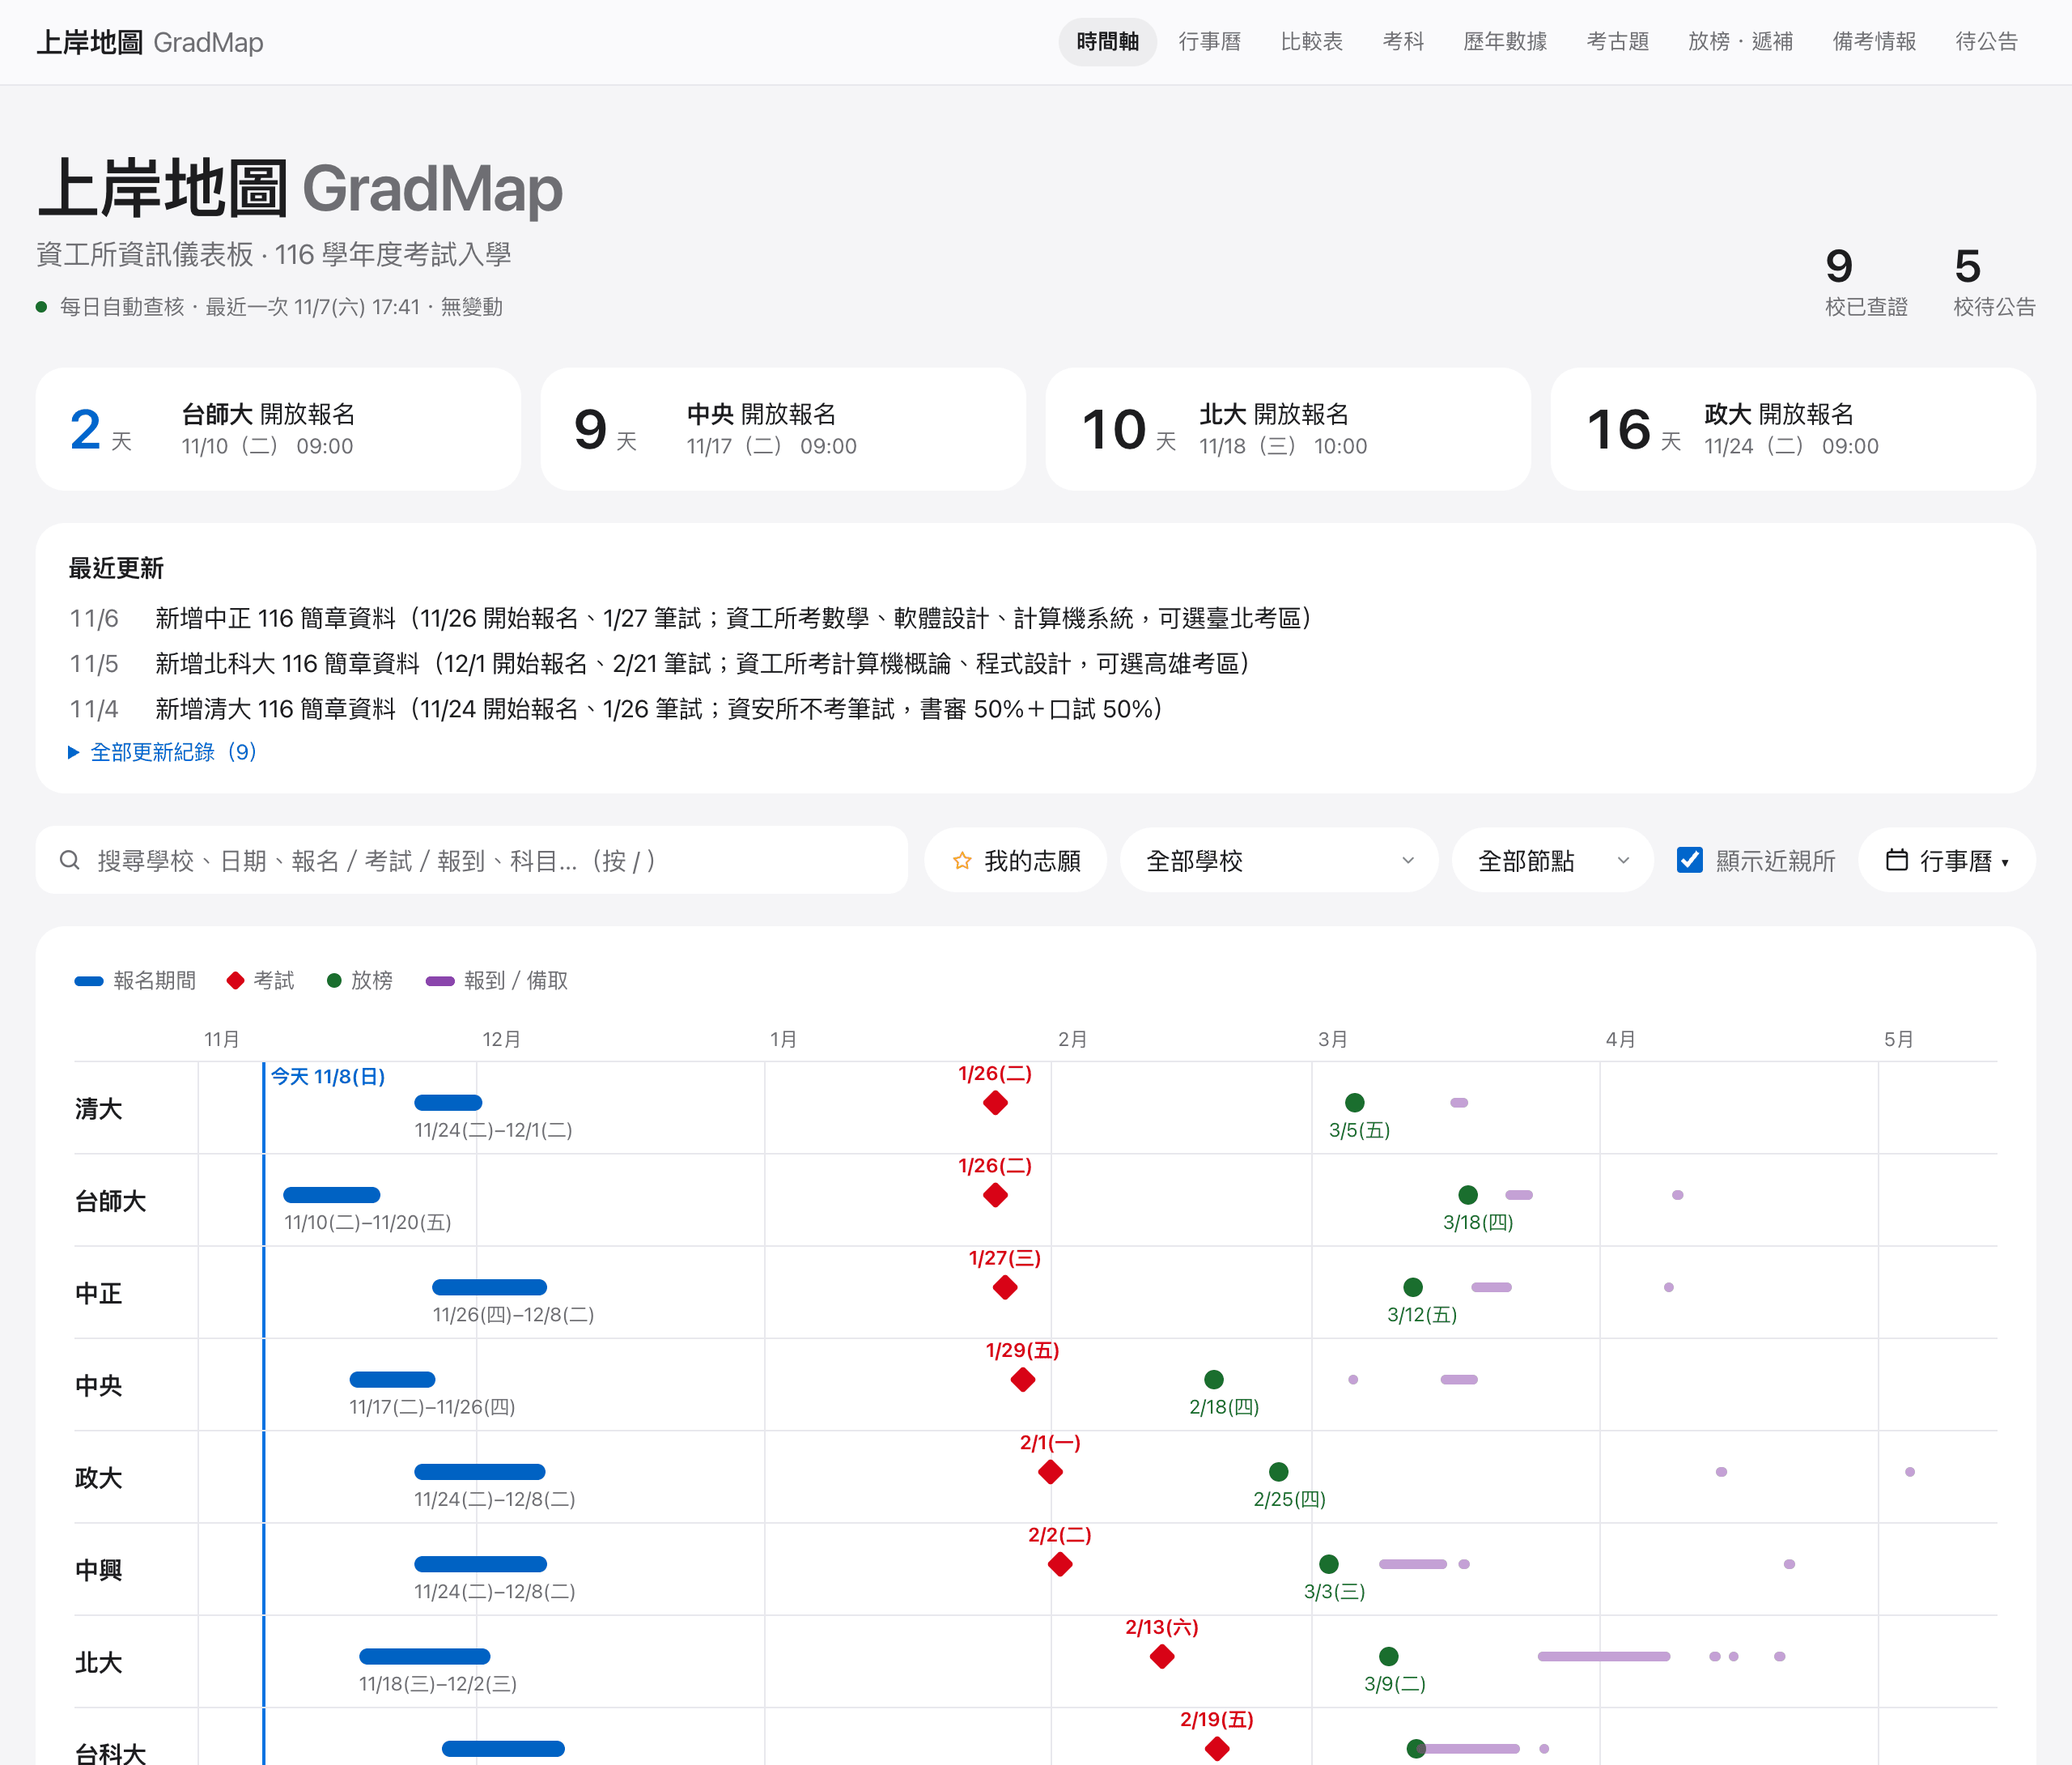
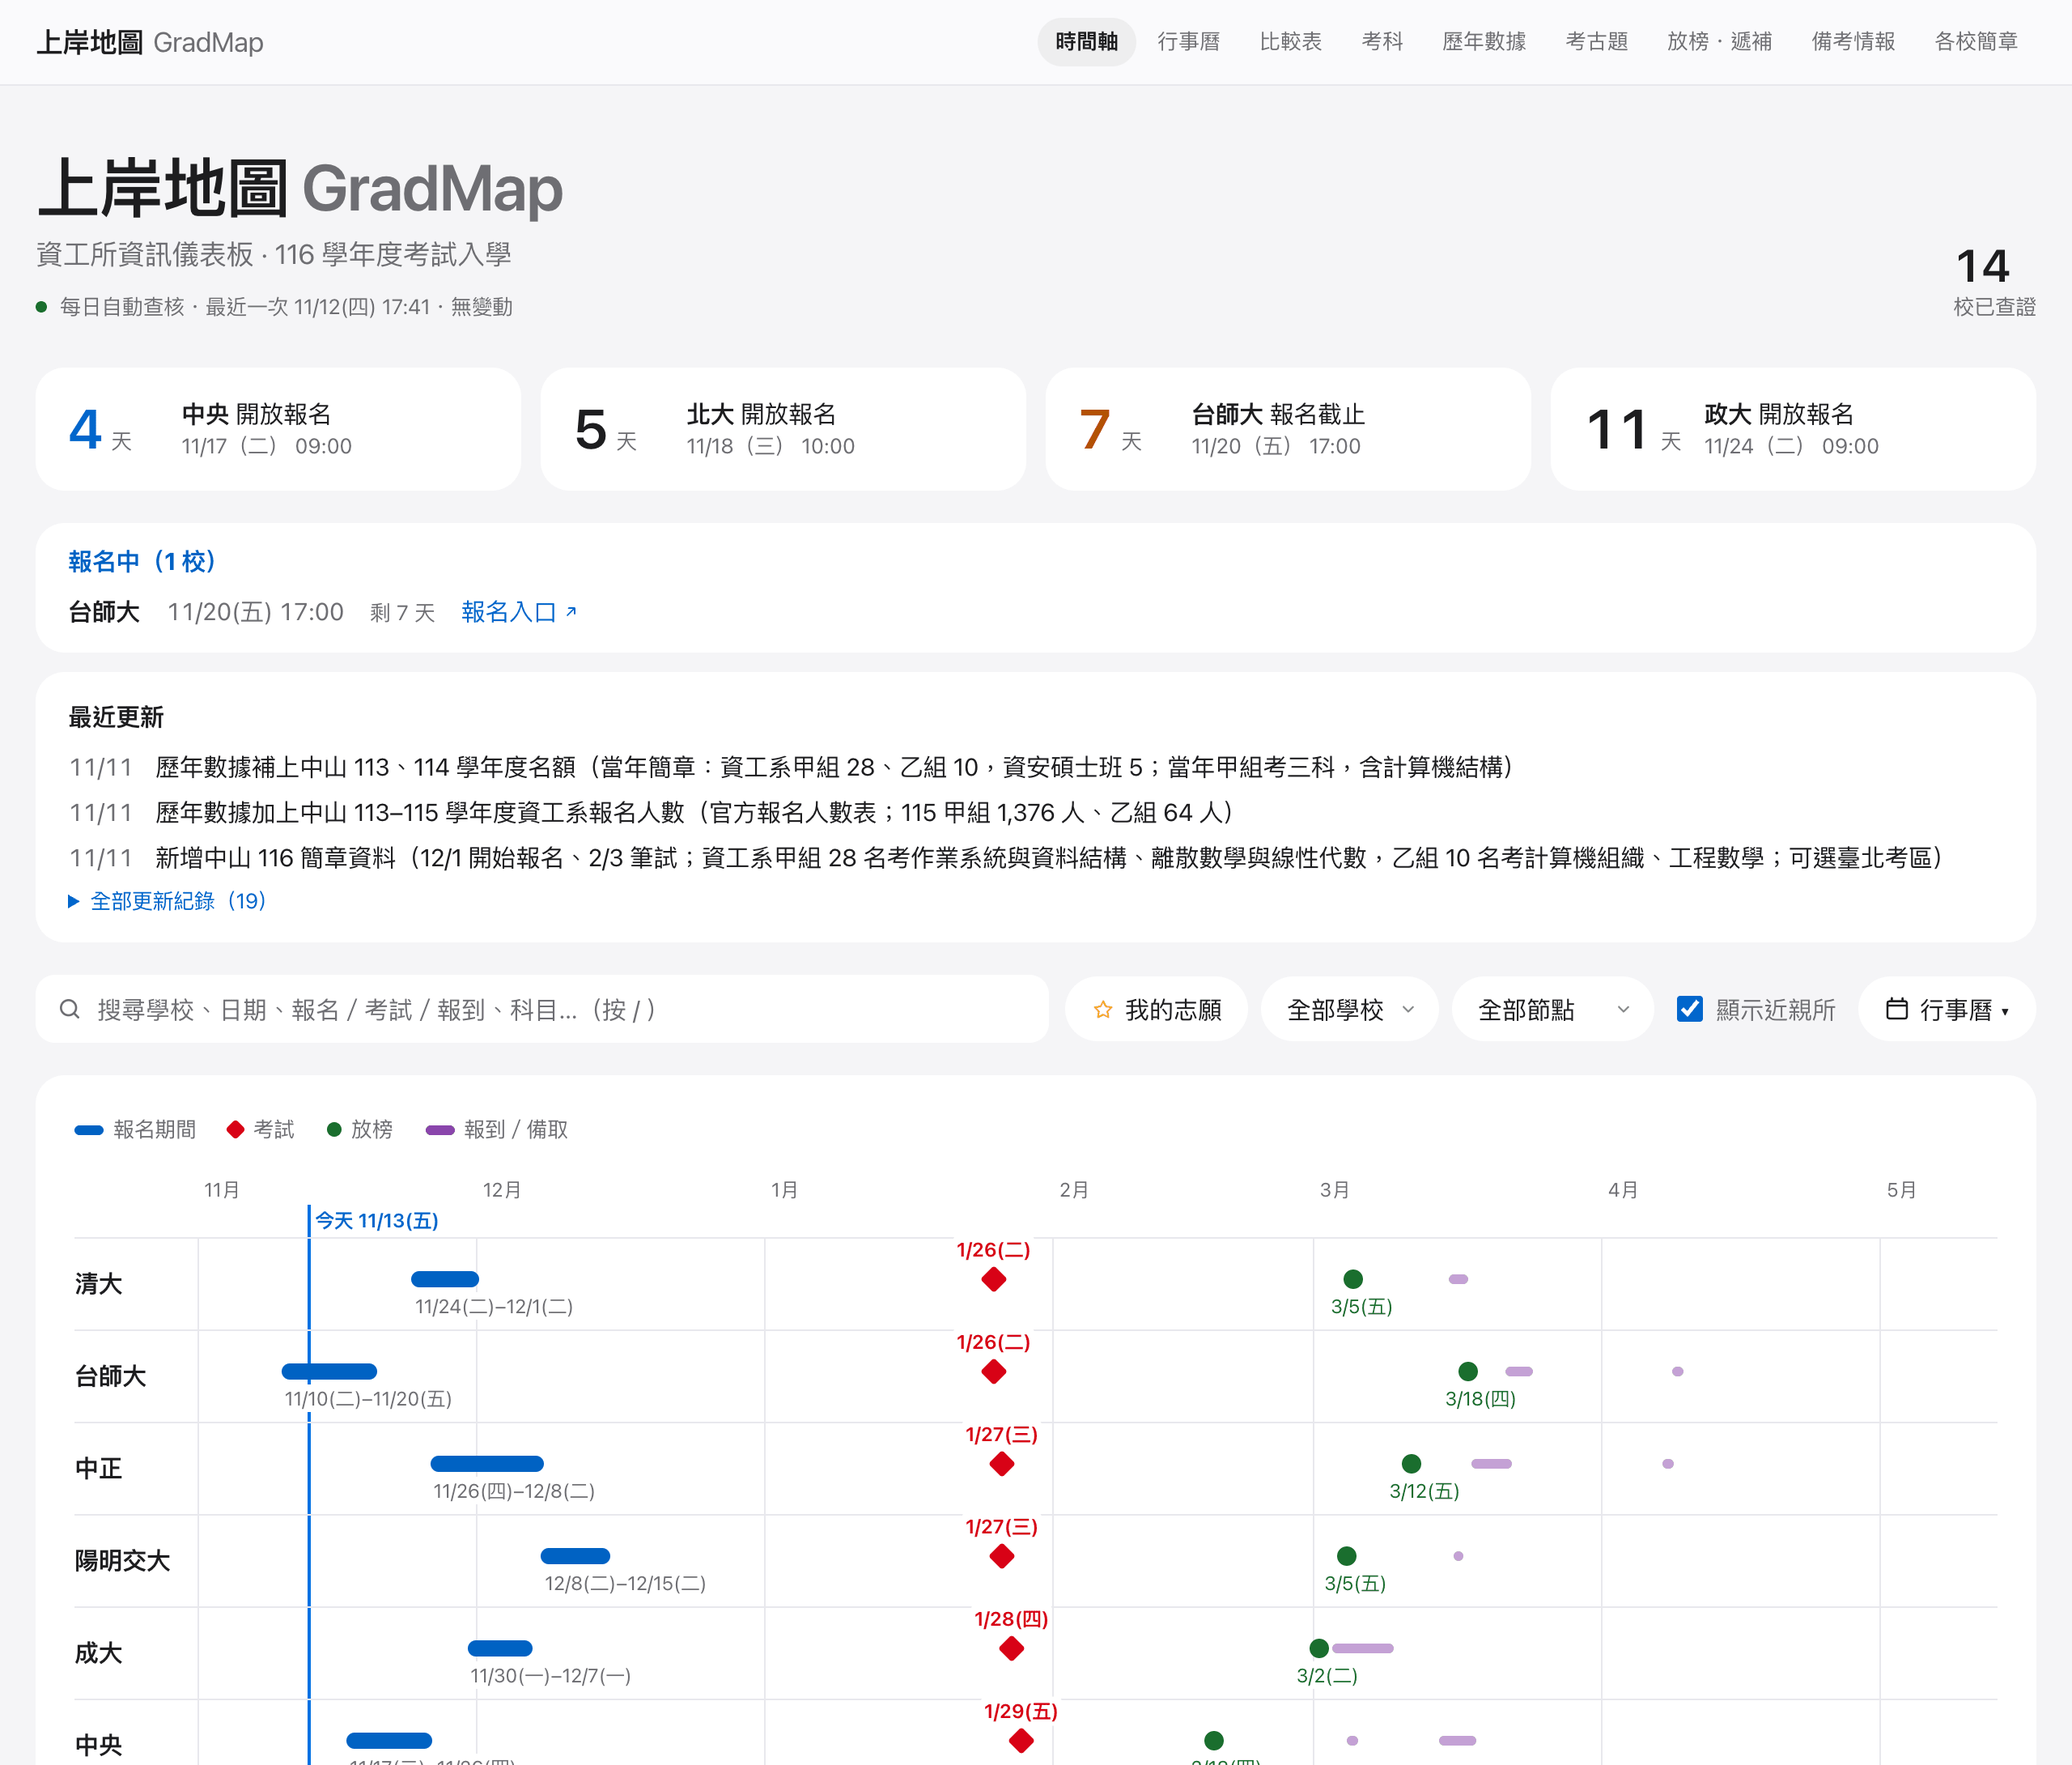
README: refresh screenshots (fee waivers, application links, Sun Yat-sen data) and describe the newer timeline, countdown and results/waitlist features
The phone screenshot now starts at the first main program card so it shows papers and weights.

diff --git a/README.md b/README.md
@@ -25,17 +25,17 @@ Deadlines, exam dates, quotas, subjects and score weights from each school's off
 
 | | English | 中文 |
 |---|---|---|
-| 🗓 | **Timeline & calendar** — registration, exam, results and enrollment dates, with weekday and conflict warnings | 時間軸與月曆：報名、考試、放榜、報到，標星期幾與撞期提醒 |
+| 🗓 | **Timeline & calendar** — registration, exam, results and enrollment dates, with weekday and conflict warnings; on phones the timeline opens at today | 時間軸與月曆：報名、考試、放榜、報到，標星期幾與撞期提醒；手機上時間軸會開在今天附近 |
 | 📊 | **Compare table** — quotas, papers, weights and tie-breakers across schools, with live registration status (open · N days left / closed) | 比較表：名額、試卷、配分、同分參酌，報名期間顯示「報名中・N 天後截止」 |
 | 🧮 | **Prep planner** — tick the subjects you study, see which programs you can apply to | 一份準備能報幾校：勾選準備科目，列出考科完全涵蓋／只差一科的組別 |
 | ★ | **My list** — pick schools, see total fees, share via link, export `.ics` | 我的志願：報名費合計、分享連結、匯出行事曆 |
 | 📍 | **Itinerary** — exam venues and back-to-back travel warnings | 考場與行程：連考、跨縣市提醒 |
 | 📚 | **Past exams index** — where each school publishes past papers, and which years | 考古題索引：官方位置與可取得年度 |
-| 📬 | **Results & waitlist** — deadlines you lose your place for missing | 放榜・遞補：不做就喪失資格的期限 |
+| 📬 | **Results & waitlist** — deadlines you lose your place for missing, how each school fills waitlist places, and where its brochure says to check | 放榜・遞補：不做就喪失資格的期限、各校遞補方式，以及簡章寫的查詢地方 |
 | 📈 | **History (113–115)** — applicants, admitted, minimum scores from official statistics | 歷年數據：報名、錄取、最低錄取分數 |
 | 🔔 | **Change markers** — brochure corrections highlighted for 45 days | 簡章更正標記 |
 | 🔗 | **Link to one program** — the 🔗 button next to a school copies a link that opens the compare table at that program (also on each school's history and results/waitlist cards) | 單一系所連結：比較表學校名稱旁的連結按鈕，複製後打開會直接捲到該系所組；歷年數據、放榜・遞補每所學校的標題旁也有 |
-| ⏳ | **Countdown** — the next registration opening, deadline or exam for each school, with 今天 on the day itself | 倒數：各校下一個開放報名／截止／考試，當天標「今天」 |
+| ⏳ | **Countdown** — the next step for each school: registration opening or deadline, exam, then results day and post-result deadlines (check-in, intention registration, named as in each brochure), with 今天 on the day itself | 倒數：各校下一個開放報名／報名截止／考試，考完接著倒數放榜和報到、意願登記截止（名稱照各校簡章），當天標「今天」 |
 | 📱 | **Phone- and tablet-friendly** — the compare table becomes one card per program on phones and tablets, the past-exam index on phones; works in light and dark mode | 手機、平板好讀：比較表在手機和平板上改成一系所一張卡片，考古題在手機上也是卡片，支援深色模式 |
 | 🖨 | **Print / PDF** — prints in light colors without buttons and filters; wide tables fit the page | 列印／存 PDF：淺色、去掉按鈕與篩選、寬表格縮到紙寬 |
 | ⌨ | **Accessible** — arrow keys switch tabs, contrast meets WCAG AA, screen-reader labels | 無障礙：方向鍵切換分頁、文字對比符合 AA、螢幕報讀標籤 |
